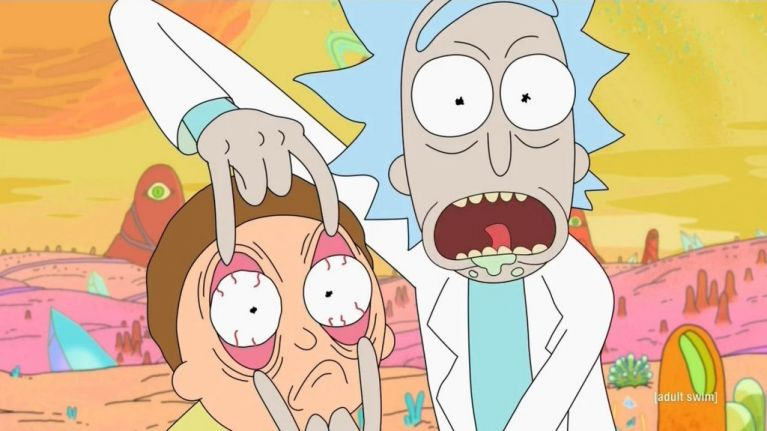
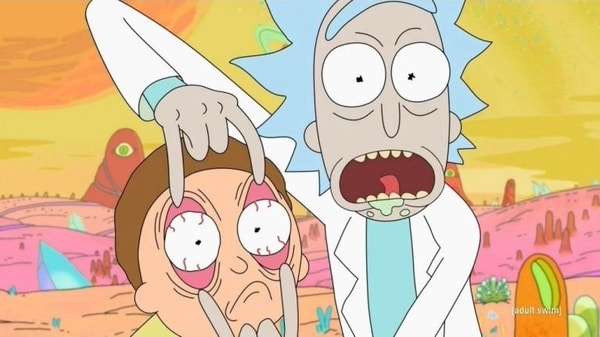
resized static images

Changed region(s): [[0.45, 0.9496, 0.48, 0.9792]]

diff --git a/pages/_app.tsx b/pages/_app.tsx
@@ -49,21 +49,21 @@ const DEFAULT_SEO_CONFIG: DefaultSeoProps = {
         alt: "RickQL Logo",
       },
       {
-        width: 750,
-        height: 418,
+        width: 600,
+        height: 334,
         url: `${BASE_URL}/images/locations.jpg`,
         alt: "Rick and Morty Locations",
       },
       {
-        width: 767,
-        height: 431,
+        width: 600,
+        height: 337,
         url: `${BASE_URL}/images/episodes.jpg`,
         alt: "Rick and Morty Episodes",
       },
       {
-        width: 1600,
-        height: 908,
-        url: `${BASE_URL}/images/characters.png`,
+        width: 600,
+        height: 341,
+        url: `${BASE_URL}/images/characters.jpg`,
         alt: "Rick and Morty Characters",
       },
     ],

diff --git a/src/views/Home/index.tsx b/src/views/Home/index.tsx
@@ -1,10 +1,5 @@
 import React from "react";
 import { Grid, Box, Typography, makeStyles } from "@material-ui/core";
-// import charactersPng from "assets/images/characters.png";
-// import episodesJpg from "assets/images/episodes.jpg";
-// import locationsJpg from "assets/images/locations.jpg";
-// import home01 from "assets/gifs/home01.webp";
-// import home02 from "assets/gifs/home02.gif";
 import clsx from "clsx";
 import BaseGridList from "@/shared/components/BaseGridList";
 import BaseCard from "@/shared/components/BaseCard";
@@ -50,7 +45,7 @@ const homeLinks = [
   {
     title: "Characters",
     to: "/characters",
-    image: "/images/characters.png",
+    image: "/images/characters.jpg",
   },
   {
     title: "Episodes",

diff --git a/src/views/Characters/index.tsx b/src/views/Characters/index.tsx
@@ -54,7 +54,7 @@ function Characters() {
         openGraph={{
           images: [
             {
-              url: `${process.env.BASE_URL}/images/characters.png`,
+              url: `${process.env.BASE_URL}/images/characters.jpg`,
             },
           ],
         }}
